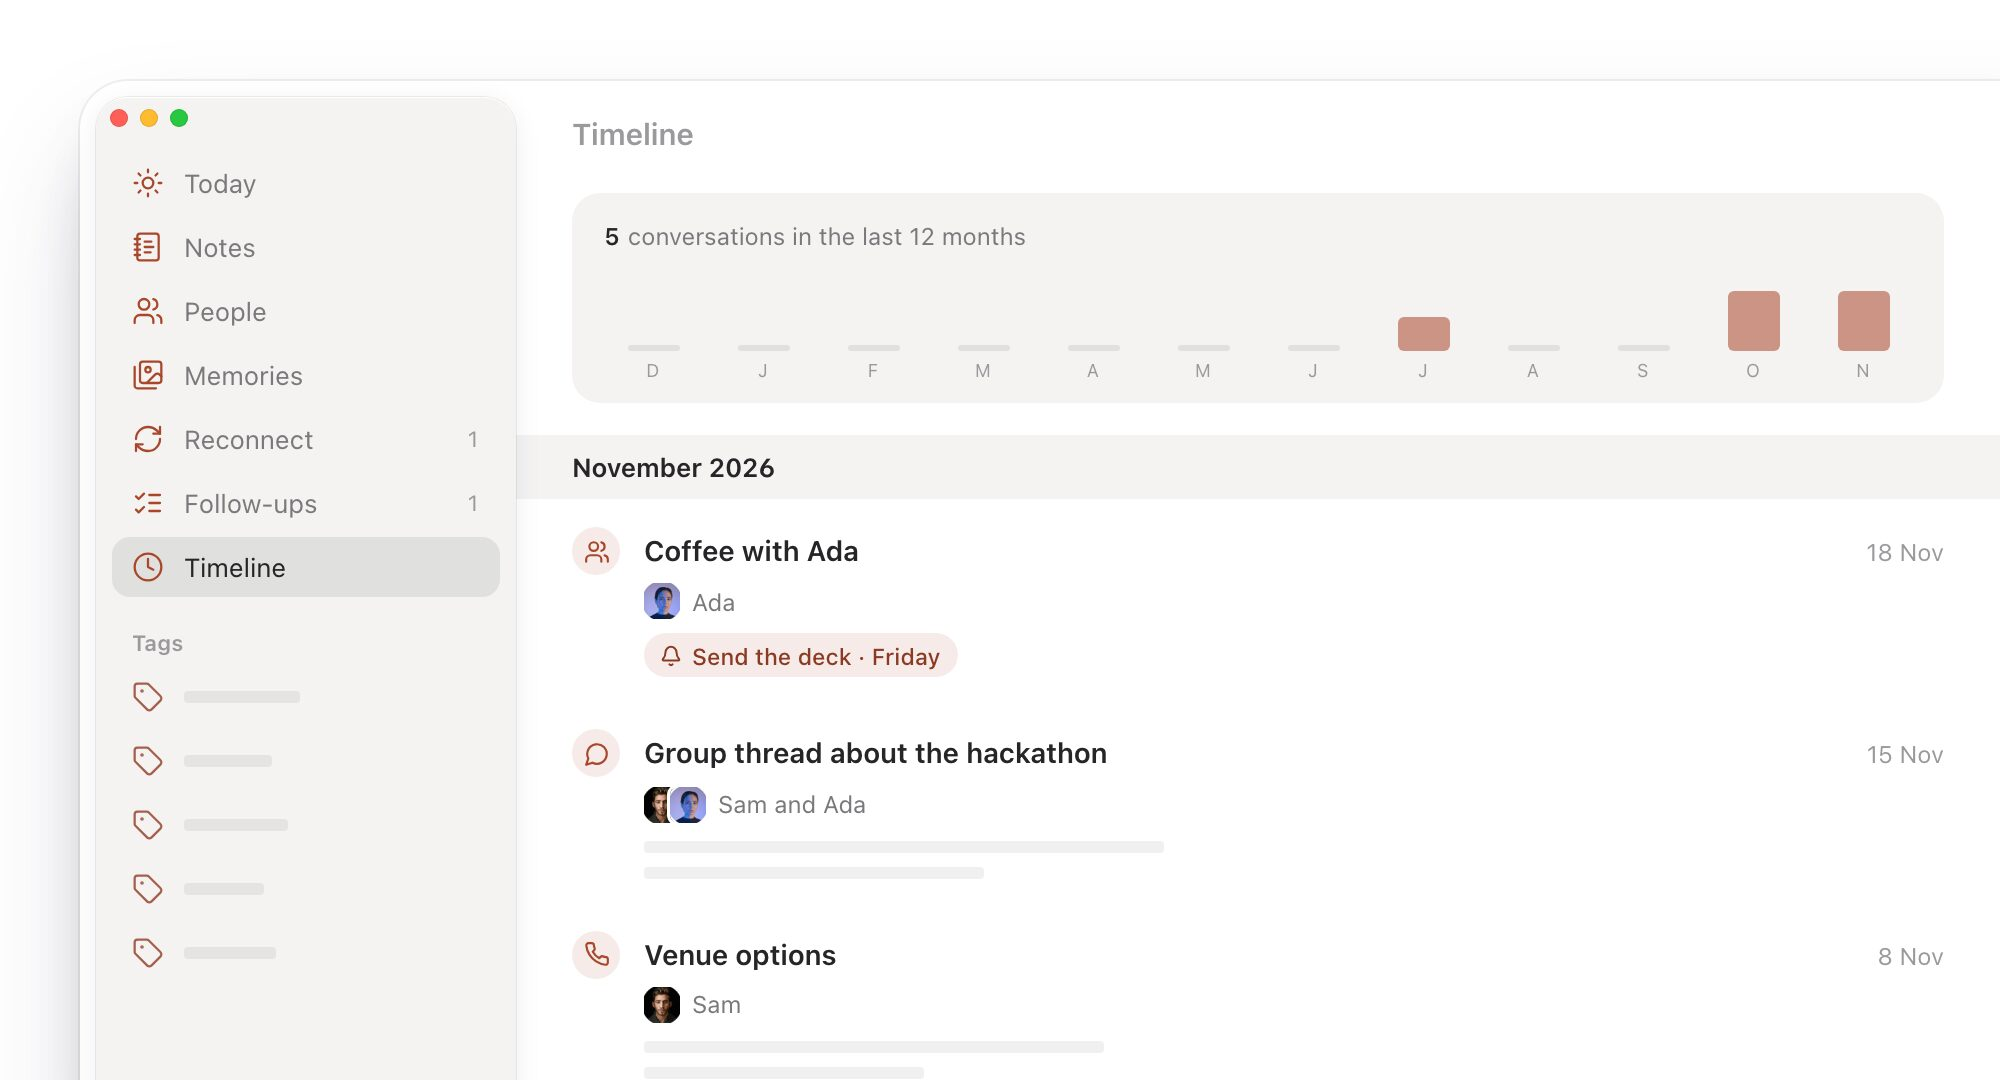
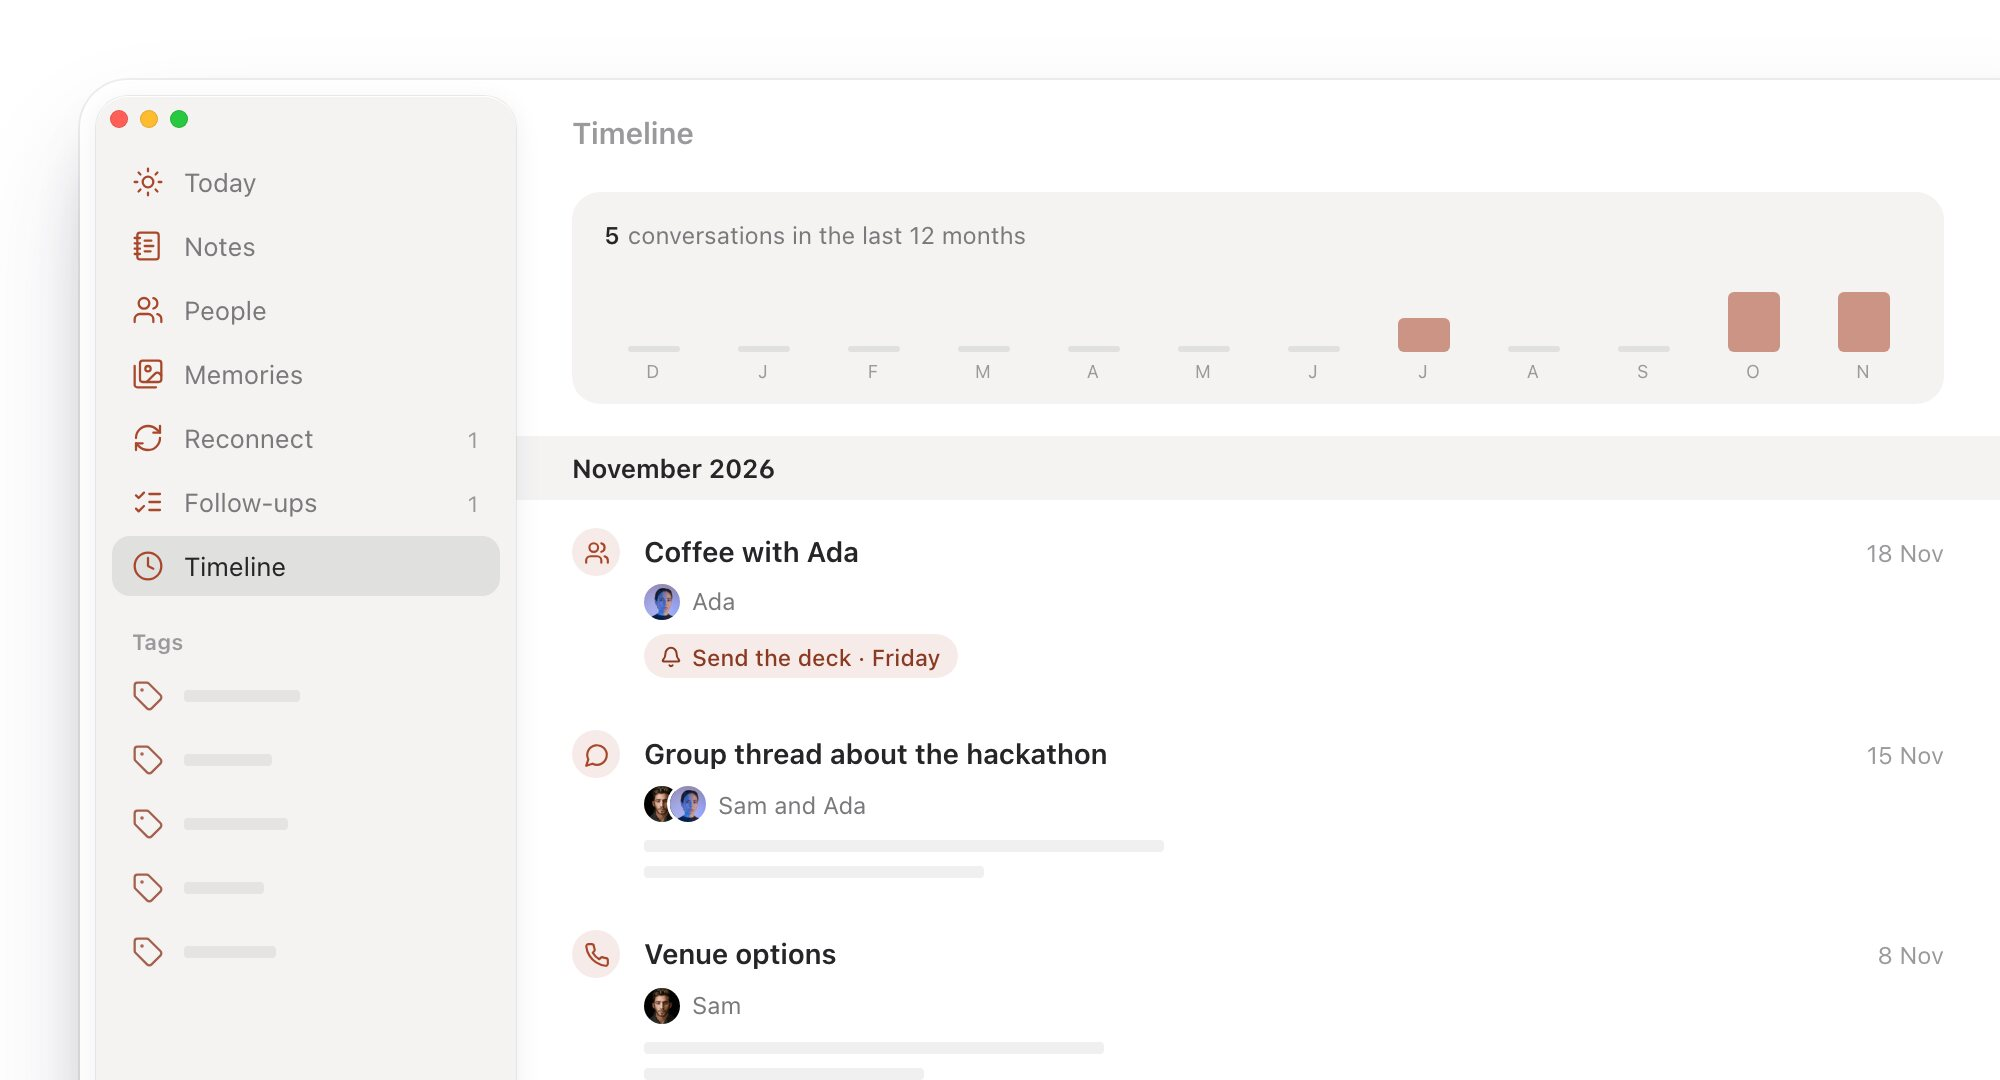
Enishi page: aligned columns, round faces, clean screenshots
- Every two-column section shares one grid, so right columns line up down the page
- Coming to the App Store is plain text, not a look-alike of Apple's badge
- Faces in the scenes are round again (the site's 4px image corners squared them off),
  and the no-JavaScript stills are captured from the fixed scenes
- The Today iPhone fades out at the bottom like the Mac window, instead of a hard edge
- iPhone screenshots have a clean 9:41 status bar; the Mac Memories window has no scroll bar

diff --git a/assets/css/enishi.css b/assets/css/enishi.css
@@ -81,24 +81,13 @@
 }
 .page-content .en .en-button:hover { background: color-mix(in srgb, var(--en-accent), #000 10%); }
 /* The App Store, before and after the listing is live: Apple's black, in the badge's shape */
-.page-content .en .en-store {
-  display: inline-flex;
-  flex-direction: column;
-  align-items: flex-start;
-  justify-content: center;
-  height: 44px;
-  padding: 0 1rem;
-  border-radius: 10px;
-  background: #000;
-  color: #fff !important;
-  box-shadow: 0 0 0 1px rgba(255, 255, 255, 0.24);
-  line-height: 1.1;
-  text-align: left;
+/* Until the App Store listing is live: words, not a look-alike of Apple's badge. */
+.page-content .en .en-soon {
+  font-size: 1.0625rem;
+  font-weight: 600;
+  color: var(--text-primary);
+  margin: 0 !important;
 }
-.page-content .en .en-store small { font-size: 0.625rem; font-weight: 500; opacity: 0.85; }
-.page-content .en .en-store strong { font-size: 1.0625rem; font-weight: 600; letter-spacing: -0.01em; }
-.page-content .en span.en-store { cursor: default; user-select: none; }
-.page-content .en a.en-store:hover { background: #1d1d1f; }
 .page-content .en .en-badge img { height: 44px; width: auto; }
 .page-content .en .en-meta span,
 .page-content .en .en-meta a { white-space: nowrap; }
@@ -114,18 +103,27 @@
 .page-content .en .en-hero-stage { aspect-ratio: 1000 / 540; max-width: 1000px; margin-bottom: 5rem; }
 .page-content .en .en-scene { container: ens / inline-size; }
 .page-content .en .en-scene .en-stage { aspect-ratio: 520 / 440; max-width: 520px; }
+/* Faces in the scenes are round: the site gives every page image 4px corners, which would
+   otherwise square them off. */
+.page-content .en .en-stage img.en-face { border-radius: 50%; }
+/* The iPhone runs off the bottom of its frame: let it fade out, like the Mac window above,
+   rather than stop on a hard edge. */
+.page-content .en .en-scene .en-stage {
+  -webkit-mask-image: linear-gradient(to bottom, #000 72%, transparent 100%);
+  mask-image: linear-gradient(to bottom, #000 72%, transparent 100%);
+}
 
 /* ── Sections ─────────────────────────────────────────────────── */
 .page-content .en .en-stack,
 .page-content .en .en-row {
   display: grid;
-  grid-template-columns: minmax(0, 5fr) minmax(0, 6fr);
+  grid-template-columns: minmax(0, 1fr) minmax(0, 1fr);
   gap: clamp(1.5rem, 4vw, 3.5rem);
   margin: 0 0 6rem;
 }
 .page-content .en .en-stack { align-items: start; }
 .page-content .en .en-row { align-items: center; }
-.page-content .en .en-row.is-flipped { grid-template-columns: minmax(0, 6fr) minmax(0, 5fr); }
+.page-content .en .en-row.is-flipped { grid-template-columns: minmax(0, 1fr) minmax(0, 1fr); }
 .page-content .en .en-row.is-flipped .en-copy { order: 2; }
 /* Two classes deep, to settle over the site's long-form heading sizes */
 .page-content .en .en-copy h2,

diff --git a/enishi.md b/enishi.md
@@ -30,9 +30,9 @@ image: "/assets/img/enishi/icon-512.png"
 {% if site.data.enishi.app_store_url != "" and site.data.enishi.app_store_badge %}
     <a class="en-badge" href="{{ site.data.enishi.app_store_url }}"><img src="/assets/img/enishi/app-store-badge.svg" alt="Download on the App Store" height="44"></a>
 {% elsif site.data.enishi.app_store_url != "" %}
-    <a class="en-store" href="{{ site.data.enishi.app_store_url }}" aria-label="Download Enishi on the App Store"><small>Download on the</small><strong>App Store</strong></a>
+    <a class="en-button" href="{{ site.data.enishi.app_store_url }}">Download on the App Store</a>
 {% else %}
-    <span class="en-store" role="img" aria-label="Coming to the App Store"><small>Coming to the</small><strong>App Store</strong></span>
+    <p class="en-soon">Coming to the App Store</p>
 {% endif %}
 {% if page.download_ready %}
     <a class="en-button" href="{{ site.data.enishi.mac_download_url }}">Download for Mac</a>
@@ -75,7 +75,7 @@ image: "/assets/img/enishi/icon-512.png"
   </div>
   <div class="en-scene">
     <div class="en-stage" id="en-today-stage" role="img" aria-label="Enishi’s Today on iPhone, Thursday 19 November: faces for Ada, Sam and Grace, follow-ups Send the deck, Friday, Ada Lovelace and Book the venue, in 3 days, Sam Okafor, and Grace Hopper to reconnect with. A tap on Ada’s face opens her page: Founder at Analytical Engines, last contact yesterday, in touch every month, with Send the deck as her open follow-up.">
-      <img class="en-stage-fallback" src="/assets/img/enishi/today.jpg" width="1040" height="880" alt="">
+      <img class="en-stage-fallback" src="/assets/img/enishi/today.jpg" width="716" height="802" alt="">
     </div>
   </div>
 </section>
